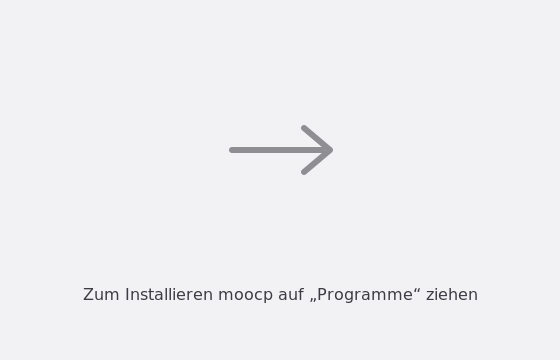
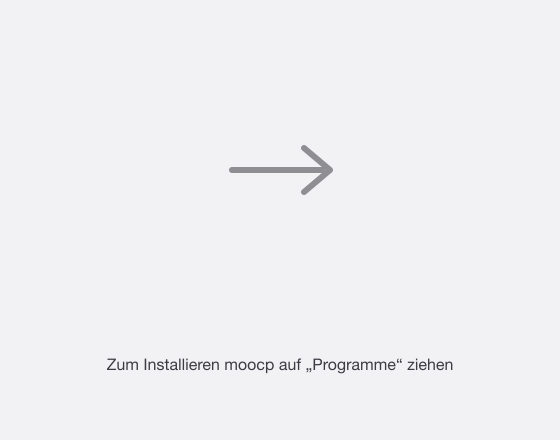
Make the macOS disk image window taller (#99)

Changed region(s): [[0.1518, 0.7944, 0.85, 0.8556], [0.3946, 0.3361, 0.6071, 0.4889]]

diff --git a/installer/macos/dmg_einstellungen.py b/installer/macos/dmg_einstellungen.py
@@ -2,7 +2,7 @@
 # (tool/mac_dmg.sh, E24). dmgbuild führt diese Datei aus und gibt ihr die
 # Werte aus -D als `defines`.
 #
-# Das Fenster ist so groß wie der Hintergrund (560 × 360), ohne Symbolleiste,
+# Das Fenster ist so groß wie der Hintergrund (560 × 440), ohne Symbolleiste,
 # Pfadleiste und Statusleiste: links die App, rechts die Verknüpfung auf
 # /Applications, dazwischen der Pfeil aus dem Hintergrund. Die Verknüpfung
 # heißt „Programme“, weil der Finder den Namen einer Verknüpfung nicht
@@ -31,9 +31,9 @@ show_tab_view = False
 show_toolbar = False
 show_pathbar = False
 show_sidebar = False
-window_rect = ((200, 120), (560, 360))
+window_rect = ((200, 120), (560, 440))
 default_view = "icon-view"
 show_icon_preview = False
 icon_size = 128
 text_size = 13
-icon_locations = {name: (140, 150), "Programme": (420, 150)}
+icon_locations = {name: (140, 170), "Programme": (420, 170)}
